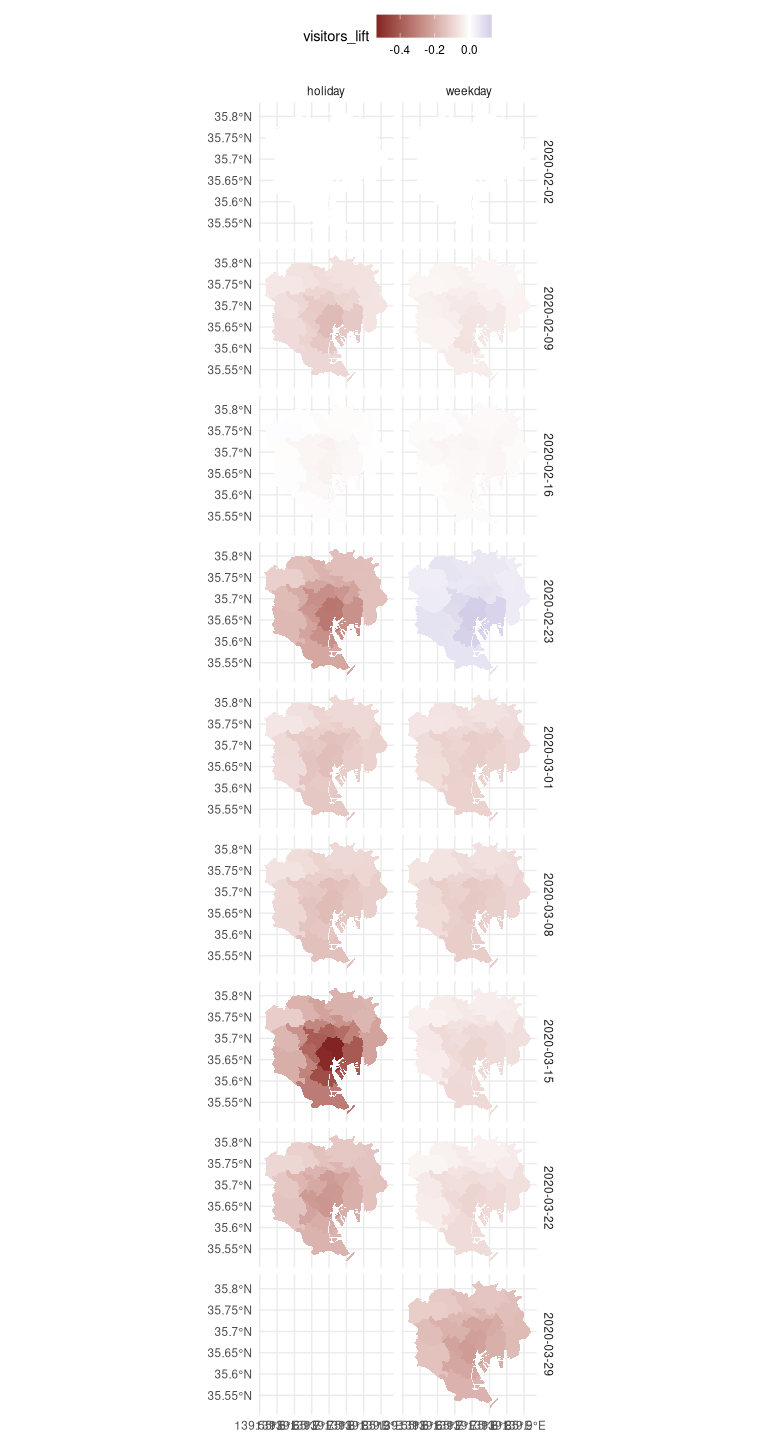
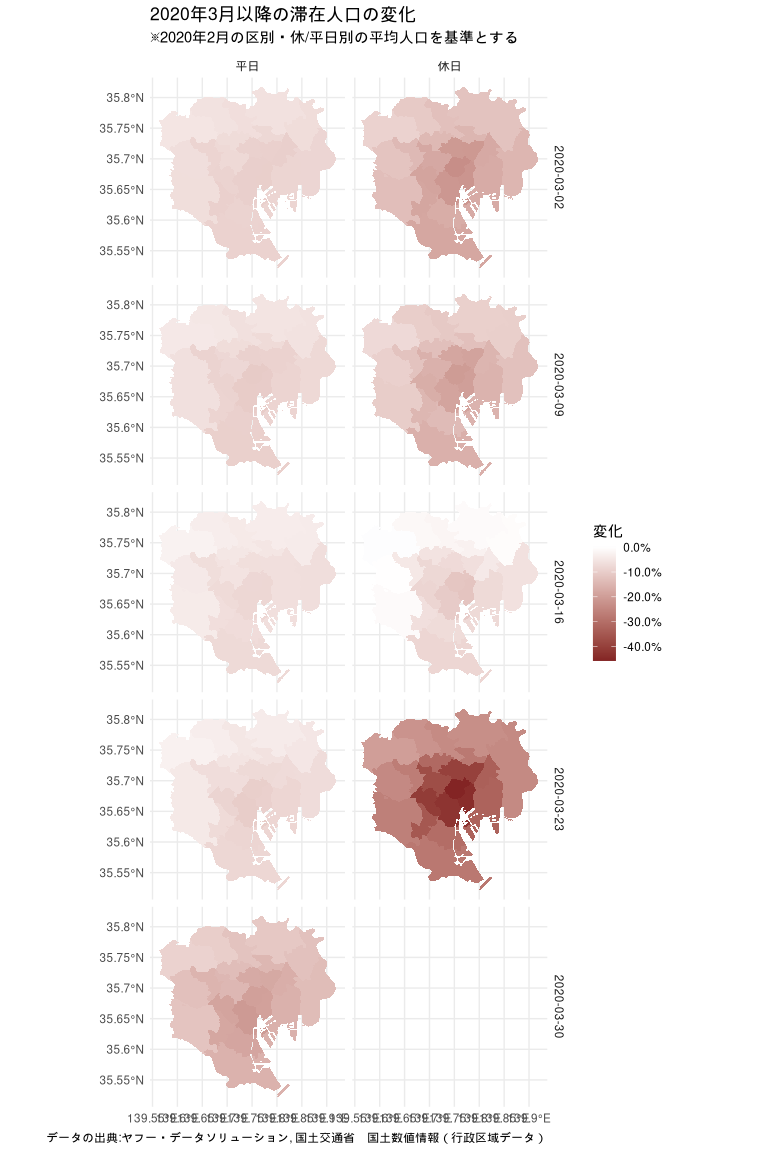
Fix data

diff --git a/README.md b/README.md
@@ -51,42 +51,61 @@ tokyo <- read_sf(here::here("data/tokyo.gpkg"))
 
 d2 <- d %>%
   mutate(
-    is_holiday = zipangu::is_jholiday(date) | (lubridate::wday(date) %in% 6:7),
-    week_begin = lubridate::floor_date(date, "weeks"),
-    day = lubridate::wday(date, label = TRUE)
+    is_holiday = zipangu::is_jholiday(date) | (lubridate::wday(date) %in% c(1, 7)),
+    is_holiday = factor(if_else(is_holiday, "休日", "平日"), levels = c("平日", "休日")),
+    # 土日は連続させたいので、月曜始まりにする
+    week_begin = lubridate::floor_date(date, "weeks", week_start = 1),
+    day = lubridate::wday(date, label = TRUE, week_start = 1)
   ) %>% 
   inner_join(tokyo, ., by = c("市区町村名" = "エリア"))
 ```
 
+とりあえず1週間分プロットしてみる。
+
 ``` r
 d2 %>%
-  filter(week_begin == as.Date("2020-02-02")) %>% 
+  filter(week_begin == as.Date("2020-02-03")) %>% 
   ggplot() +
   geom_sf(aes(fill = visitors), colour = NA) +
   facet_grid(rows = vars(対象分類), cols = vars(day)) +
   theme_minimal() +
   theme(legend.position = "top") +
   scale_fill_viridis_c(option = "B") +
-  ggtitle("2020/2/2〜2/8")
+  ggtitle("2020/2/3〜2/9")
 ```
 
 ![](README_files/figure-gfm/plot_first_week-1.png)<!-- -->
 
+休日と平日で傾向が違うので、別々に変化を見る。
+
 ``` r
+# 2020年2月の区別・休/平日別の平均人口を基準とする
+d_feb <- d2 %>% 
+  sf::st_set_geometry(NULL) %>% 
+  filter(lubridate::month(date) == 2) %>%
+  group_by(市区町村名, 対象分類, is_holiday) %>% 
+  summarise(visitors_feb = mean(visitors))
+
 d_weekly <- d2 %>%
-  # 2020-02-01だけの週を取り除く
-  filter(week_begin >= as.Date("2020-02-02")) %>% 
-  group_by(市区町村名, 対象分類, is_holiday = if_else(is_holiday, "holiday", "weekday"), week_begin) %>%
+  # 3月以降
+  filter(lubridate::month(week_begin) > 2) %>%
+  group_by(市区町村名, 対象分類, is_holiday, week_begin) %>%
   summarise(visitors = mean(visitors)) %>%
-  arrange(week_begin) %>%
+  ungroup() %>%
+  inner_join(d_feb, by = c("市区町村名", "対象分類", "is_holiday")) %>% 
   mutate(
-    visitors_lift = visitors / first(visitors) - 1
-  ) %>%
-  ungroup()
+    visitors_lift = visitors / visitors_feb - 1
+  )
 
 ggplot(d_weekly, aes(week_begin, visitors_lift, colour = 市区町村名)) +
   geom_line() +
-  facet_grid(rows = vars(is_holiday, 対象分類))
+  geom_point() +
+  facet_grid(rows = vars(is_holiday, 対象分類)) +
+  scale_colour_viridis_d(option = "B", alpha = 0.7) +
+  scale_x_date(date_breaks = "weeks") +
+  scale_y_continuous("変化", labels = scales::percent) +
+  theme_minimal() +
+  labs(title = "2020年3月以降の滞在人口の変化", subtitle = "※2020年2月の区別・休/平日別の平均人口を基準とする")
 ```
 
 ![](README_files/figure-gfm/plot_changes-1.png)<!-- -->
@@ -102,8 +121,9 @@ ggplot(d_weekly_de_facto) +
   geom_sf(aes(fill = visitors_lift), colour = NA) +
   facet_grid(cols = vars(is_holiday), rows = vars(week_begin)) +
   theme_minimal() +
-  theme(legend.position = "top") +
-  scale_fill_gradient2()
+  scale_fill_gradient2("変化", labels = scales::percent) +
+  labs(title = "2020年3月以降の滞在人口の変化", subtitle = "※2020年2月の区別・休/平日別の平均人口を基準とする", 
+       caption = "データの出典:ヤフー・データソリューション, 国土交通省　国土数値情報（行政区域データ）")
 ```
 
 ![](README_files/figure-gfm/animate-1.png)<!-- -->
